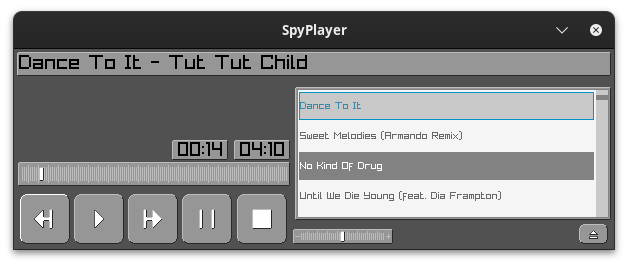
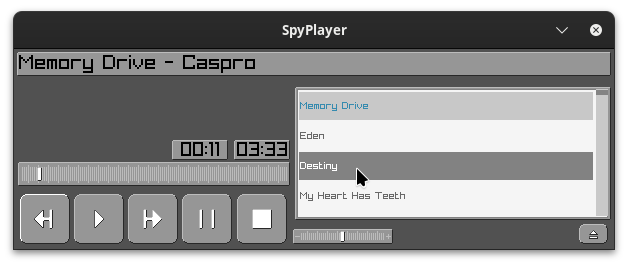
Adds current progress to readme

diff --git a/README.md b/README.md
@@ -20,6 +20,8 @@ This is a work in progress, and is not yet feature complete.
 - [x] Seeking
 - [ ] Playlist management
   - [x] Load from folder
+  - [x] Playlist showing loaded songs
+  - [x] Selecting a song plays that song
   - [ ] Add to playlist
   - [ ] Remove from playlist
   - [ ] Clear playlist
